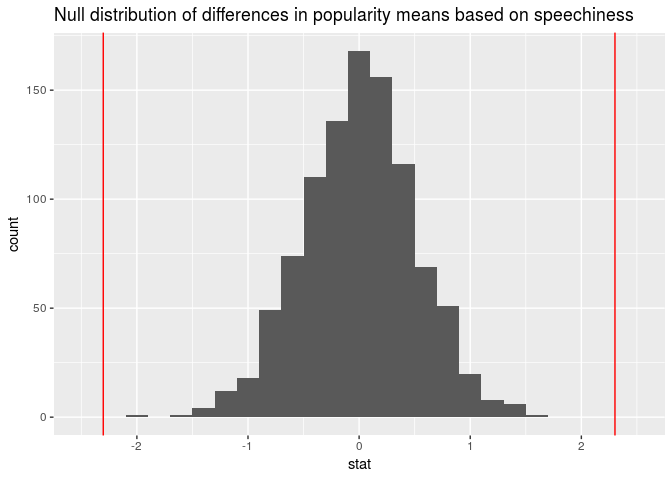
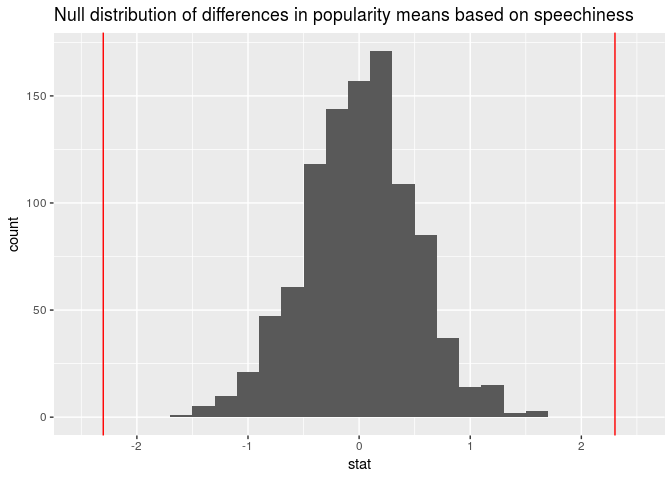
added narrative changes

diff --git a/project/project.md b/project/project.md
@@ -92,7 +92,9 @@ the data set, three above the median song popularity and three below the
 median song popularity. The movie plot is not normally shaped, as the
 majority of the data lies above the median in the upper quartile, making
 the plot slightly-right skewed. There appears to be three outliers in
-the data set, all of which lie above the median song popularity.
+the data set, all of which lie above the median song
+popularity.
+
 ![](project_files/figure-gfm/plot-selectedgenres-popularity-1.png)<!-- -->
 
 This scatterplot visualizes the relationship between a confidence
@@ -164,6 +166,7 @@ keys of songs. According to the data, the key with the highest median
 song popularity is F\#. Since there is little variability between the
 median popularities of songs, based on the track’s key, key does not
 appear to be a strong predictor of song popularity.
+
 ![](project_files/figure-gfm/plot-key-popularity-1.png)<!-- -->
 
 This scatterplot visualizes the relationship between the likeliness that
@@ -201,6 +204,7 @@ of songs with minor modalities. The major plot is also not normally
 shaped, as the majority of the data lies below the median, making it
 slightly left-skewed. There appears to be one outlier in the major data,
 which falls above the median popularity of songs with major modalities.
+
 ![](project_files/figure-gfm/plot-mode-popularity-1.png)<!-- -->
 
 This scatterplot visualizes the relationship between how exclusively
@@ -236,6 +240,7 @@ data falls below the median song popularity, making it slightly
 left-skewed. There appears to be two outliers above the median song
 popularity of the 4/4 plot, and multiple outliers below the median song
 popularity of the 4/4 plot.
+
 ![](project_files/figure-gfm/timesignature-popularity-1.png)<!-- -->
 
 This scatterplot visualizes the relationship between the musical
@@ -493,11 +498,12 @@ popularity of Rap is 6.15.
     ##    <dbl>
     ## 1      0
 
-The p-value of the difference between Pop and Rap songs is 0, which
-means that we can reject the null hypothesis that there is not a
-difference between the mean popularities of songs that are Pop versus
-Rap. The data provides convincing evidence that there is a difference in
-mean popularities of songs that in the Pop genre versus the Rap genre.
+The p-value of the difference between the popularity of Pop and Rap
+songs is 0%, which is the proportion of observations that are at least
+as extreme or more extreme than the observed difference in means (6.15).
+Since 0% is less than a significance level of 5%, the null hypothesis is
+rejected, meaning that the data provides convincing evidence that there
+is a difference in mean popularities of songs that are Pop versus Rap.
 
 #### Popularity Difference Between High Energy and Low Energy
 
@@ -665,15 +671,15 @@ the difference in mean popularity scores between the Rap and Pop genres
     ## # A tibble: 1 x 1
     ##   lower_bound
     ##         <dbl>
-    ## 1        3.91
+    ## 1        3.87
 
     ## # A tibble: 1 x 1
     ##   upper_bound
     ##         <dbl>
-    ## 1        6.94
+    ## 1        6.98
 
 We are 95% certain that the difference in means between the popularity
-score of the rap and pop genres is between 3.9118453 and 6.9396844.
+score of the rap and pop genres is between 3.8697591 and 6.9843596.
 
 ### Time Signature
 
@@ -700,16 +706,16 @@ signature.
     ## # A tibble: 1 x 1
     ##   lower_bound
     ##         <dbl>
-    ## 1        10.4
+    ## 1        10.5
 
     ## # A tibble: 1 x 1
     ##   upper_bound
     ##         <dbl>
-    ## 1        13.3
+    ## 1        13.4
 
 We are 95% certain that the difference in popularity means between the
 songs with higher (highest 25%) time\_signature and the lower (lowest
-25%) time\_signature is between 10.3626823 and 13.3403091.
+25%) time\_signature is between 10.496159 and 13.3522235.
 
 ### Confidence intervals for continous variables
 
@@ -756,8 +762,8 @@ Songs with high danceability have a mean popularity score that is around
     ## 1        12.3
 
 We are 95% certain that the difference in popularity means between the
-songs with high danceability and low danceability is between 10.0689462
-and 12.3067126.
+songs with high danceability and low danceability is between 10.0644013
+and 12.2550735.
 
 ### Energy
 
@@ -791,7 +797,7 @@ higher compared songs with low
     ## 1        13.9
 
 We are 95% certain that the difference in means between songs with high
-energy and low energy is between 11.1744179 and 13.8869729.
+energy and low energy is between 11.2271226 and 13.9134096.
 
 ### Liveness
 
@@ -817,15 +823,15 @@ liveness.
     ## # A tibble: 1 x 1
     ##   lower_bound
     ##         <dbl>
-    ## 1       -7.49
+    ## 1       -7.40
 
     ## # A tibble: 1 x 1
     ##   upper_bound
     ##         <dbl>
-    ## 1       -4.66
+    ## 1       -4.69
 
 We are 95% certain that the difference in popularity means between songs
-with high liveness and low liveness is between-7.486912 and -4.6582772.
+with high liveness and low liveness is between-7.3992985 and -4.6896393.
 
 ### Loudness
 
@@ -859,8 +865,8 @@ higher compared with songs with low
     ## 1        20.9
 
 We are 95% certain that the difference in mean popularity scores between
-songs with high loudness and the low loudness is between 18.3526001 and
-20.9074858.
+songs with high loudness and the low loudness is between 18.3855711 and
+20.9102096.
 
 ### Acousticness
 
@@ -886,16 +892,16 @@ Songs with high acousticness have a mean popularity score that is around
     ## # A tibble: 1 x 1
     ##   lower_bound
     ##         <dbl>
-    ## 1       -20.8
+    ## 1       -20.9
 
     ## # A tibble: 1 x 1
     ##   upper_bound
     ##         <dbl>
-    ## 1       -18.4
+    ## 1       -18.3
 
 We are 95% certain that the difference in popularity means between songs
-with high acousticness and the low acousticness is between -20.8428027
-and -18.3584242.
+with high acousticness and the low acousticness is between -20.8781871
+and -18.3312398.
 
 ### Valence
 
@@ -921,15 +927,15 @@ higher compared songs with low
     ## # A tibble: 1 x 1
     ##   lower_bound
     ##         <dbl>
-    ## 1        4.63
+    ## 1        4.58
 
     ## # A tibble: 1 x 1
     ##   upper_bound
     ##         <dbl>
-    ## 1        7.40
+    ## 1        7.36
 
 We are 95% certain that the difference in means between songs with high
-valence and low valence is between 4.6317943 and 7.3984785.
+valence and low valence is between 4.5777989 and 7.3586448.
 
 ### Conclusion
 
